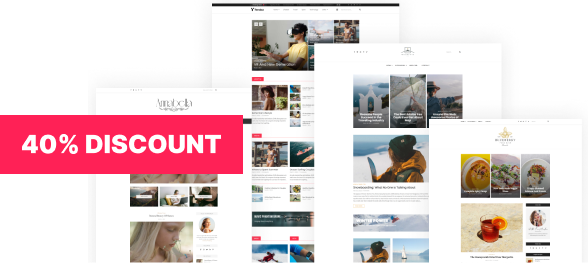
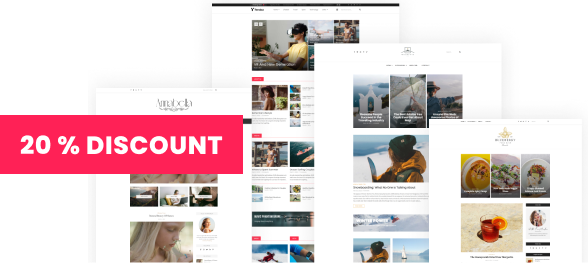
c

Changed region(s): [[0.0306, 0.4867, 0.398, 0.6084]]

diff --git a/classes/plugin-update-notice.php b/classes/plugin-update-notice.php
@@ -43,21 +43,15 @@ class WprPluginUpdateNotice {
                             <img src="'. esc_url(WPR_ADDONS_ASSETS_URL) .'/img/logo-128x128.png">
                         </div>
                         <div>
-                            <h3><span>New Feature</span><br> Royal WooCommerce Builder</h3>
-                            <p>
-                                Royal Elementor WooCommerce Builder lets you customize every fundamental part of your WooCommerce site without coding. Including your Header, Footer, Product Archives, Products, Post Archives, Posts, Default Pages, 404 Pages, etc..
-                                <br><br><strong>New Woo Builder Template Kits:</strong>
-                                <a href="https://demosites.royal-elementor-addons.com/fashion-v1/?ref=rea-plugin-backend-update-notice" target="_blank">Fashion</a>, 
-                                <a href="https://demosites.royal-elementor-addons.com/furniture-shop-v1/?ref=rea-plugin-backend-update-notice" target="_blank">Furniture Shop</a>, 
-                                <a href="https://demosites.royal-elementor-addons.com/grocery-store-v1/?ref=rea-plugin-backend-update-notice" target="_blank">Grocery Store</a>,
-                                <a href="https://demosites.royal-elementor-addons.com/woo-food-v1/?ref=rea-plugin-backend-update-notice" target="_blank">Food Delivery</a>,
-                                <a href="https://demosites.royal-elementor-addons.com/wooshop-v1/?ref=rea-plugin-backend-update-notice" target="_blank">WooShop</a>.
-                            </p>
-                            <br>
-                            <div>
-                                <a href="'. esc_url(get_admin_url()) .'admin.php?page=wpr-templates-kit" class="wpr-get-started-button button button-primary">Go to Templates Library</a>
-                                <a href="'. esc_url(get_admin_url()) .'admin.php?page=wpr-theme-builder&tab=wpr_tab_product_archive" class="wpr-get-started-button button button-secondary">Go to WooCommerce Builder</a>
-                            </div>
+                            <h3><span>New Features</span><br> Introducing New Widgets</h3>
+                            <p>We are excited to announce that we have added new Widgets, Template Kits, and other Elementor<br> features to enhance your website building experience. Stay tuned for the weekly updates!</p>
+                            <ul class="wpr-new-widgets-list">
+                                <li><a target="_blank" href="https://royal-elementor-addons.com/elementor-mega-menu-widget/?ref=rea-plugin-backend-update-notice">Mega Menu</a></li>
+                                <li><a target="_blank" href="https://royal-elementor-addons.com/elementor-offcanvas-menu-widget/?ref=rea-plugin-backend-update-notice">Off-Canvas Content</a></li>
+                                <li><a target="_blank" href="https://royal-elementor-addons.com/elementor-instagram-feed-widget/?ref=rea-plugin-backend-update-notice">Instagram Feed</a></li>
+                                <li><a target="_blank" href="https://royal-elementor-addons.com/elementor-twitter-feed-widget/?ref=rea-plugin-backend-update-notice">Twitter Feed</a></li>
+                                <li><a target="_blank" href="https://royal-elementor-addons.com/elementor-image-accordion-widget/?ref=rea-plugin-backend-update-notice">Image Accordion</a></li>
+                            </ul>
                         </div>
                         <div class="image-wrap"><img src="'. esc_url(WPR_ADDONS_ASSETS_URL) .'/img/new-theme-builder.png"></div>
                         <canvas id="wpr-notice-confetti"></canvas>
@@ -157,7 +151,7 @@ class WprPluginUpdateNotice {
             .wpr-plugin-update-notice h3 {
                 font-size: 36px;
                 margin-top: 0;
-                margin-bottom: 35px;
+                margin-bottom: 20px;
             }
 
             .wpr-plugin-update-notice h3 span {
@@ -176,6 +170,31 @@ class WprPluginUpdateNotice {
               font-size: 14px;
             }
 
+            .wpr-plugin-update-notice ul {
+                display: flex;
+            }
+            
+            .wpr-plugin-update-notice ul a {
+            display: block;
+            text-decoration: none;
+            }
+            
+            .wpr-plugin-update-notice ul li a:after {
+            content: ' ';
+            display: inline-block;
+            position: relative;
+            top: -2px;
+            width: 5px;
+            height: 5px;
+            margin-left: 12px;
+            margin-right: 12px;
+            background-color: #e0e0e0;
+            transform: rotate(45deg);
+            }
+            
+            .wpr-plugin-update-notice ul li:last-child a:after {
+            display: none;
+            }
             .wpr-get-started-button.button-primary {
             background-color: #6A4BFF;
             }
@@ -185,7 +204,7 @@ class WprPluginUpdateNotice {
             }
 
             .wpr-get-started-button.button-secondary {
-            border: 2px solid #6A4BFF;
+            border: 1px solid #6A4BFF;
             color: #6A4BFF;
             }
 
@@ -213,8 +232,18 @@ class WprPluginUpdateNotice {
             }
 
             @media screen and (max-width: 1366px) {
+                .wpr-plugin-update-notice h3 {
+                    font-size: 32px;
+                }
+
                 .wpr-plugin-update-notice .image-wrap img {
                   zoom: 0.4;
+                }
+            }
+
+            @media screen and (max-width: 1280px) {
+                .wpr-plugin-update-notice .image-wrap img {
+                  zoom: 0.35;
                 }
             }
 

diff --git a/classes/plugin-sale-notice.php b/classes/plugin-sale-notice.php
@@ -44,19 +44,23 @@ class WprPluginSaleNotice {
                             <img src="'. esc_url(WPR_ADDONS_ASSETS_URL) .'/img/logo-128x128.png">
                         </div>
                         <div>
-                            <h3><span>Flash Sale</span><br> Royal Elementor Addons Pro</h3>
+                            <h3><span>Flash Sale</span><br> Get Royal Elementor Addons Pro</h3>
                             <ul>
+                                <li>
+                                    <img src="'. esc_url(WPR_ADDONS_ASSETS_URL) .'/img/check-mark.png">
+                                    50+ Designer Made Templates Kit
+                                </li>
+                                <li>
+                                    <img src="'. esc_url(WPR_ADDONS_ASSETS_URL) .'/img/check-mark.png">
+                                    80+ Advanced Elementor Widgets
+                                </li>
                                 <li>
                                     <img src="'. esc_url(WPR_ADDONS_ASSETS_URL) .'/img/check-mark.png">
                                     Advanced Theme Builder
                                 </li>
                                 <li>
                                     <img src="'. esc_url(WPR_ADDONS_ASSETS_URL) .'/img/check-mark.png">
-                                    20+ Designer Made Templates Kit
-                                </li>
-                                <li>
-                                    <img src="'. esc_url(WPR_ADDONS_ASSETS_URL) .'/img/check-mark.png">
-                                    35+ Advanced Elementor Widgets
+                                    Advanced WooCommerce Builder
                                 </li>
                                 <li>
                                     <img src="'. esc_url(WPR_ADDONS_ASSETS_URL) .'/img/check-mark.png">
@@ -65,8 +69,8 @@ class WprPluginSaleNotice {
                             </ul>
                             <p>
                                 Hurry up! Upgrade within the <strong>next 24 hours</strong> and get a 
-                                <strong>40% Discount</strong>.<br><br>
-                                Use Promo Code: &nbsp;&nbsp;&nbsp;<strong style="border: 1px dashed #C3C4C7;padding: 2px 10px;">REAFLASH40</strong>
+                                <strong>20% Discount</strong>.<br><br>
+                                Use Promo Code: &nbsp;&nbsp;&nbsp;<strong style="border: 1px dashed #C3C4C7;padding: 2px 10px;">REAFLASH20</strong>
                             </p>
                             <br>
                             <div>
@@ -184,6 +188,7 @@ class WprPluginSaleNotice {
             }
 
             .wpr-plugin-sale-notice ul li {
+                font-size: 14px;
             }
 
             .wpr-plugin-sale-notice ul img {
@@ -204,6 +209,7 @@ class WprPluginSaleNotice {
                 padding: 5px 25px;
                 font-weight: bold;
                 letter-spacing: 0.3px;
+                text-transform: uppercase;
             }
             
             .wpr-plugin-sale-notice .wpr-upgrade-to-pro-button:hover {
@@ -230,13 +236,15 @@ class WprPluginSaleNotice {
               pointer-events: none;
             }
 
-            .wpr-plugin-sale-notice .image-wrap img {
-              
+            @media screen and (max-width: 1366px) {
+                .wpr-plugin-sale-notice .image-wrap img {
+                  zoom: 0.8;
+                }
             }
 
             @media screen and (max-width: 1366px) {
                 .wpr-plugin-sale-notice .image-wrap img {
-                  zoom: 0.9;
+                  zoom: 0.7;
                 }
             }
         </style>";

diff --git a/classes/utilities.php b/classes/utilities.php
@@ -25,13 +25,13 @@ class Utilities {
 			'Magazine Grid' => ['magazine-grid', 'https://royal-elementor-addons.com/elementor-grid-widget-examples/', '#filter:category-magazine-grid', ''],
 			'Posts/Story Timeline' => ['posts-timeline', 'https://royal-elementor-addons.com/elementor-timeline-widget/', '', ''],
 			'Advanced Slider' => ['advanced-slider', 'https://royal-elementor-addons.com/elementor-advanced-slider-widget/', '', ''],
-			'Offcanvas' => ['offcanvas', 'https://royal-elementor-addons.com/elementor-offcanvas-menu-widget/', '', 'new'],
+			'Off-Canvas Content' => ['offcanvas', 'https://royal-elementor-addons.com/elementor-offcanvas-menu-widget/', '', 'new'],
 			'Testimonial' => ['testimonial', 'https://royal-elementor-addons.com/elementor-testimonials-slider-widget/', '', ''],
 			'Nav Menu' => ['nav-menu', 'http://royal-elementor-addons.com/elementor-menu-widget/', '', ''],
 			'Mega Menu' => ['mega-menu', 'https://royal-elementor-addons.com/elementor-mega-menu-widget/', '', 'new'],
 			'Onepage Navigation' => ['onepage-nav', 'https://royal-elementor-addons.com/elementor-one-page-navigation-widget/', '', ''],
 			'Instagram Feed' => ['instagram-feed', 'https://royal-elementor-addons.com/elementor-instagram-feed-widget/', '', 'new'],
-			'Data Table' => ['data-table', 'https://royal-elementor-addons.com/elementor-data-table-widget/', '', 'new'],
+			'Data Table' => ['data-table', 'https://royal-elementor-addons.com/elementor-data-table-widget/', '', ''],
 			'Pricing Table' => ['pricing-table', 'https://royal-elementor-addons.com/elementor-pricing-table-widget/', '', ''],
 			'Content Toggle' => ['content-toggle', 'https://royal-elementor-addons.com/elementor-content-toggle-widget/', '', ''],
 			'Charts' => ['charts', 'https://royal-elementor-addons.com/elementor-charts-widget/', '', ''],
@@ -65,9 +65,9 @@ class Utilities {
 			'Site Logo' => ['logo', '', '', ''],
 			'Popup Trigger' => ['popup-trigger', '', '', ''],
 			'Taxonomy List' => ['taxonomy-list', '', '', ''],
-			'Page List' => ['page-list', '', '', 'new'],
+			'Page List' => ['page-list', '', '', ''],
 			'Template' => ['elementor-template', '', '', ''],
-			'Reading Progress Bar' => ['reading-progress-bar', 'https://royal-elementor-addons.com/elementor-reading-progress-bar-widget/', '', 'new'],
+			'Reading Progress Bar' => ['reading-progress-bar', 'https://royal-elementor-addons.com/elementor-reading-progress-bar-widget/', '', ''],
 			'Twitter Feed' => ['twitter-feed', 'https://royal-elementor-addons.com/elementor-twitter-feed-widget/', '', 'new'],
 			// 'Facebook Feed' => ['facebook-feed', '', '', 'new'],
 			// https://royal-elementor-addons.com/elementor-offcanvas-widget/

diff --git a/modules/offcanvas/widgets/wpr-offcanvas.php b/modules/offcanvas/widgets/wpr-offcanvas.php
@@ -26,7 +26,7 @@ class Wpr_Offcanvas extends Widget_Base {
 	}
 
 	public function get_title() {
-		return esc_html__( 'Offcanvas Menu', 'wpr-addons' );
+		return esc_html__( 'Off-Canvas Content', 'wpr-addons' );
 	}
 
 	public function get_icon() {
@@ -38,7 +38,7 @@ class Wpr_Offcanvas extends Widget_Base {
 	}
 
 	public function get_keywords() {
-		return [ 'royal', 'offcanvas', 'off canvas', 'sidebar', 'ofcanvas', 'popup' ];
+		return [ 'royal', 'offcanvas', 'menu', 'nav', 'content', 'off canvas', 'sidebar', 'ofcanvas', 'popup' ];
 	}
 
 	public function get_style_depends() {

diff --git a/admin/plugin-options.php b/admin/plugin-options.php
@@ -543,7 +543,7 @@ function wpr_addons_settings_page() {
                     <li><span>Magazine Grid/Slider Widget</span></li>
                     <li><span>Basic Timeline Widget</span></li>
                     <li><span>Basic Slider Widget</span></li>
-                    <li><span>Offcanvas Menu</span></li>
+                    <li><span>Offcanvas Content</span></li>
                     <li><span>Instagram Feed</span></li>
                     <li><span>Twitter Feed</span></li>
                     <li><span>Basic Data Table</span></li>
